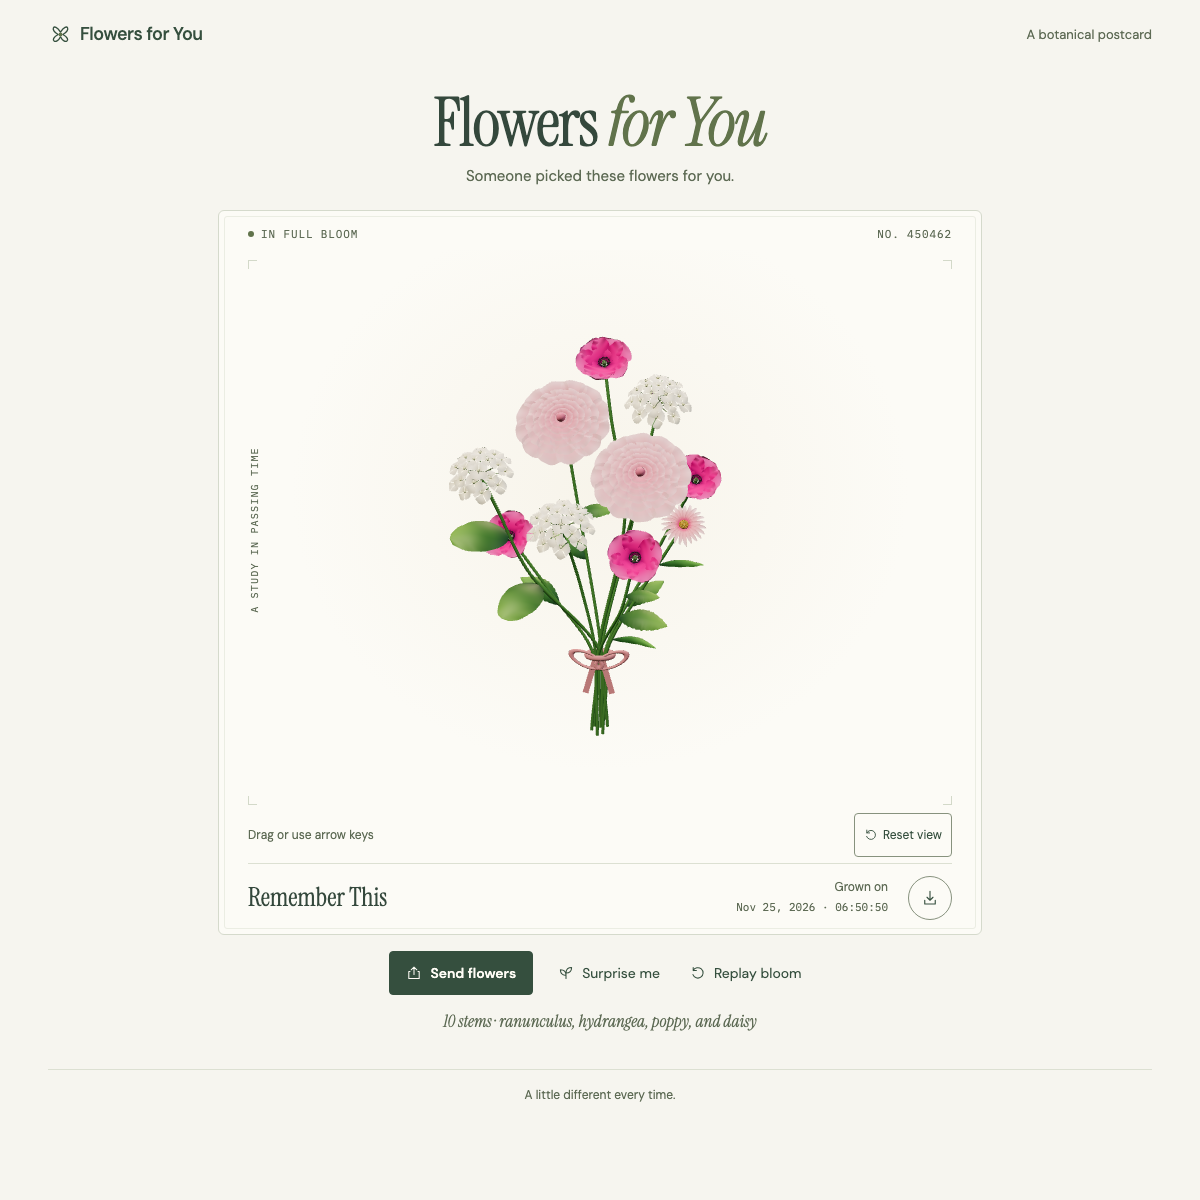
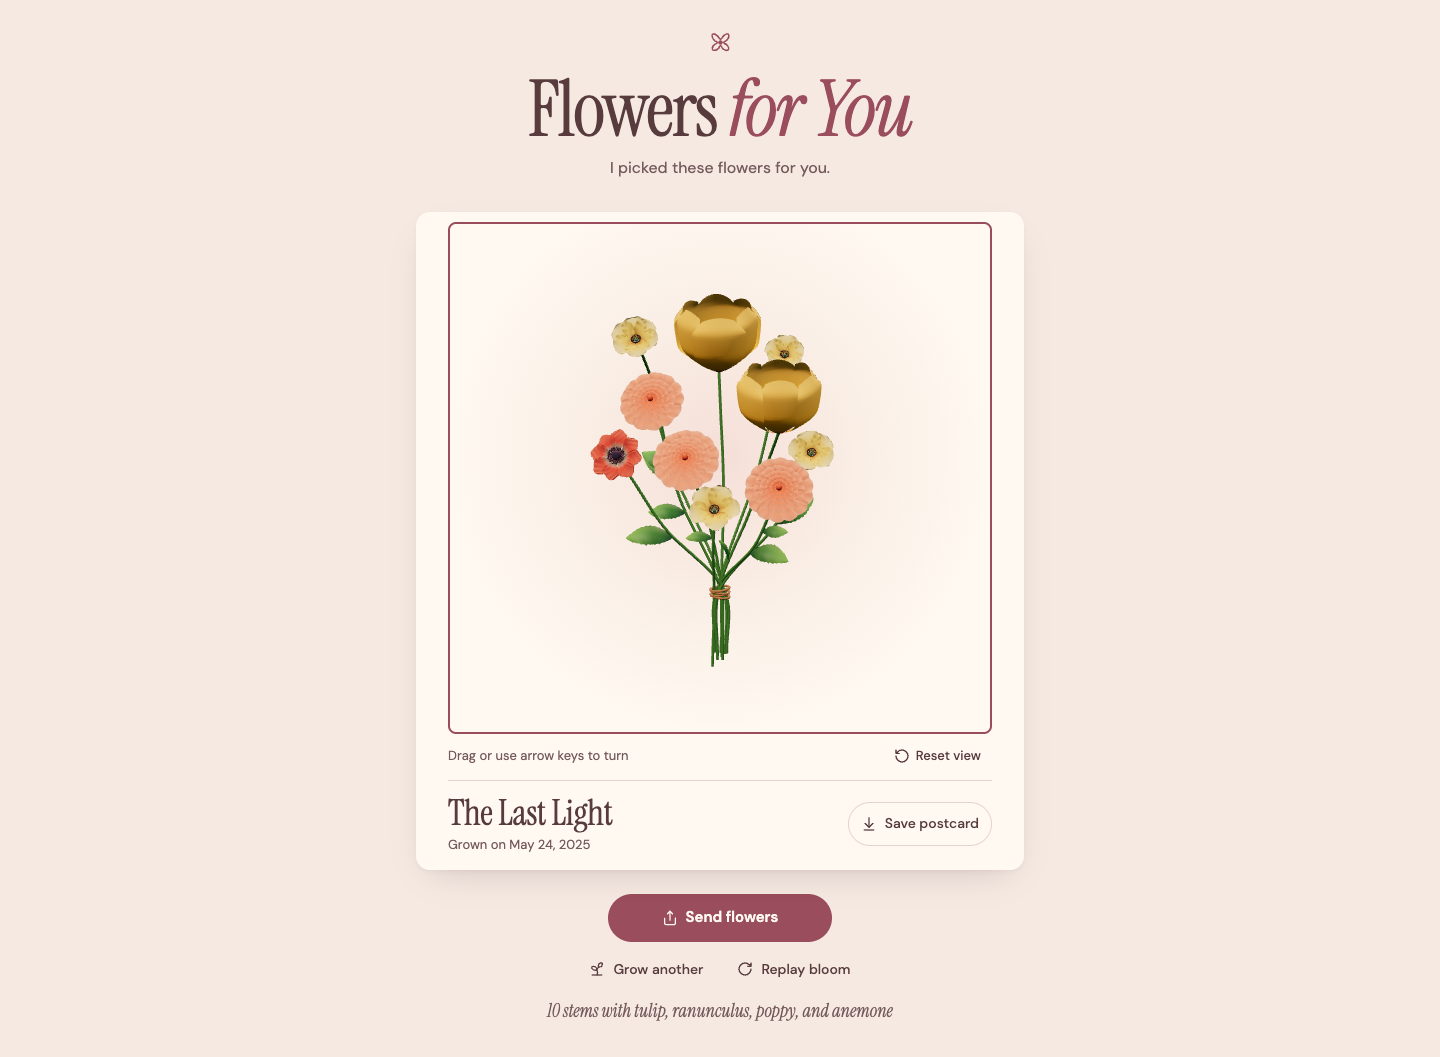
Refresh React app documentation previews and Pages deployment guide

diff --git a/README.md b/README.md
@@ -16,7 +16,8 @@
   <a href="#the-garden">Preview</a> ·
   <a href="#run-it-locally">Run locally</a> ·
   <a href="#how-it-grows">How it works</a> ·
-  <a href="#development">Development</a>
+  <a href="#development">Development</a> ·
+  <a href="docs/DEPLOYMENT.md">Deployment</a>
 </p>
 
 <p align="center">
@@ -59,13 +60,19 @@ These four studies show some of the original flowers, which are still in the mix
   <img src="docs/images/bouquet-gallery.jpg" width="920" alt="Four procedural bouquets featuring roses, tulips, dahlias, and sunflowers, each with supporting flowers" />
 </p>
 
+### A gift to open
+
+<p align="center">
+  <img src="docs/images/gift-cover.png" width="800" alt="The cream stationery cover with an envelope seal and an Open your flowers button" />
+</p>
+
 ### Desktop & mobile
 
-These screenshots show an earlier version of the postcard on desktop and mobile.
+Current React postcard, shown with [the same reproducible bouquet](https://mesterm12.github.io/moment-garden/?bouquet=1970260fcfb) on desktop and mobile. Screenshots capture the finished bouquet; the bloom plays when opened by pointer with motion enabled.
 
 <table>
   <tr>
-    <td width="72%" valign="top"><img src="docs/images/desktop.png" alt="Desktop postcard with a mixed bouquet, replay and surprise controls, and download button" /></td>
+    <td width="72%" valign="top"><img src="docs/images/desktop.png" alt="Rose-and-cream desktop postcard with The Last Light bouquet, sharing, replay, and save actions" /></td>
     <td width="28%" valign="top"><img src="docs/images/mobile.png" alt="The same bouquet postcard in a narrow mobile layout" /></td>
   </tr>
 </table>
@@ -122,7 +129,7 @@ flowchart TD
 
 ### A shared seed, independent details
 
-`botany.js` turns a millisecond timestamp into a bouquet plan. Each stem gets a derived seed for its geometry, while repeated species share cultivar colors. Layout is chosen before tessellation. Flower-head envelopes keep the mature blooms apart in 3D. Stem paths make room around neighboring heads, and crowded leaves are shortened, redirected, or omitted.
+[`src/garden/botany.js`](src/garden/botany.js) turns a millisecond timestamp into a bouquet plan. Each stem gets a derived seed for its geometry, while repeated species share cultivar colors. Layout is chosen before tessellation. Flower-head envelopes keep the mature blooms apart in 3D. Stem paths make room around neighboring heads, and crowded leaves are shortened, redirected, or omitted.
 
 Replay, rotation, and PNG export keep the existing bouquet. **Grow another** starts from a new timestamp and clears any bouquet seed from the address, so refreshing afterward is a fresh visit. The link carries the arrangement, not the sender’s camera angle. Browser/GPU rendering can vary. Messaging apps show a general preview image; the link itself opens the exact bouquet.
 
@@ -178,17 +185,23 @@ npm run test:e2e                 # Starts its own preview server on port 4175
 ### Project map
 
 - [`index.html`](index.html) and [`src/main.tsx`](src/main.tsx): Vite entry page and React entry point.
-- [`src/`](src/): postcard UI, URL handling, and the Three.js garden engine.
+- [`src/App.tsx`](src/App.tsx) and [`src/components/`](src/components/): gift state, focus handoff, reveal, and sharing/saving feedback.
+- [`src/garden/engine.ts`](src/garden/engine.ts) and [`src/garden/rotation.ts`](src/garden/rotation.ts): disposable Three.js rendering and frame-independent gesture physics.
+- [`src/lib/bouquet-link.ts`](src/lib/bouquet-link.ts): the deterministic share-link contract.
 - [`src/components/ui/`](src/components/ui/) and [`src/styles/`](src/styles/): local UI primitives and stationery styling.
 - Root-level generators and their `.test.cjs` files: deterministic compatibility fixtures for bouquet plans, geometry, and links.
 - [`tests/`](tests/): browser tests against the production build.
-- [`docs/images/`](docs/images/) and [`DESIGN-REVIEW.md`](DESIGN-REVIEW.md): reference images and botanical geometry notes.
+- [`DESIGN.md`](DESIGN.md) and [`PRODUCT.md`](PRODUCT.md): the current visual system and product constraints.
+- [`docs/DEPLOYMENT.md`](docs/DEPLOYMENT.md): publishing, verification, troubleshooting, and rollback.
+- [`docs/images/`](docs/images/) and [`DESIGN-REVIEW.md`](DESIGN-REVIEW.md): current screenshots, earlier flower studies, and historical botanical geometry notes.
 
 ### Hosting
 
 Run `npm ci` and `npm run build`, then publish the contents of **`dist/`**, not the repository root. The result is a static site: no Next.js or Node.js runtime server, backend, database, API keys, or runtime settings are required.
 
-Vite’s relative asset base (`./`) lets the same build run at a domain root or a subpath such as `/moment-garden/`. For GitHub Pages, select **GitHub Actions** as the Pages source in repository Settings → Pages before publishing the migration. The included [Pages workflow](.github/workflows/pages.yml) tests and builds the site, uploads `dist/`, and deploys that artifact on pushes to `main` or manual dispatch. The separate test workflow does not publish. Keep the existing site path so previously shared bouquet links keep working. No live deployment or Pages settings change is performed by local setup.
+Vite’s relative asset base (`./`) lets the same build run at a domain root or a subpath such as `/moment-garden/`. The included [Pages workflow](.github/workflows/pages.yml) tests and builds the site, uploads `dist/`, and deploys that artifact on pushes to `main` or manual dispatch. Pages must use **GitHub Actions** as its source, not branch-root publishing. The separate test workflow also runs desktop/mobile browser checks but does not publish.
+
+See [Deployment](docs/DEPLOYMENT.md) for setup, release verification, and rollback. Keep the existing site path so previously shared bouquet links keep working. Local setup and `npm run build` do not deploy anything.
 
 ### Contributing
 

diff --git a/docs/DEPLOYMENT.md b/docs/DEPLOYMENT.md
@@ -1,0 +1,65 @@
+# Deploy Flowers for You
+
+The site is a React 19 + TypeScript application built with Vite. GitHub Pages serves the contents of `dist/`; it does not execute React, TypeScript, or a Node server.
+
+- Public site: https://mesterm12.github.io/moment-garden/
+- Deployment workflow: [pages.yml](../.github/workflows/pages.yml)
+- Build and browser checks: [test.yml](../.github/workflows/test.yml)
+
+## Publish through GitHub Actions
+
+1. In repository **Settings → Pages → Build and deployment**, select **GitHub Actions** as the source. Branch-root publishing is incompatible with the Vite source tree.
+2. Push a reviewed commit to `main`, or run **Deploy static site to GitHub Pages** manually from the Actions tab.
+3. The build job installs the lockfile with Node.js 24, runs the Node and React tests, builds the application, and uploads `dist/` as a Pages artifact.
+4. The deploy job publishes that artifact to the `github-pages` environment using GitHub’s short-lived deployment token. No personal access token or application secret is needed.
+5. Wait for both the deployment and the separate browser-test workflow to succeed. Smoke-test the public URL before sharing it.
+
+From an authenticated GitHub CLI:
+
+```sh
+gh workflow run pages.yml --ref main
+gh run list --workflow pages.yml --limit 5
+gh run watch <run-id> --exit-status
+```
+
+The workflow runs on `main` pushes automatically; manual dispatch is useful for redeploying an existing commit. Concurrent Pages runs are canceled in favor of the latest one.
+
+## Verify a release
+
+Open this known bouquet:
+
+https://mesterm12.github.io/moment-garden/?bouquet=1970260fcfb
+
+Check that:
+
+- The personal cover loads and **Open your flowers** is enabled.
+- Opening reveals **The Last Light**, seeded by timestamp `1748091600123`.
+- Replay preserves the arrangement; **Grow another** changes it and removes the old bouquet token from the URL.
+- **Send flowers** produces a link under `/moment-garden/`, not a local preview address.
+- **Save postcard** downloads a PNG of the current bouquet.
+- Keyboard and reduced-motion opening show the finished arrangement without waiting.
+- The browser reports no failed local asset requests or application errors.
+
+The URL token and path are part of the gift contract. Keep `/moment-garden/` and the existing lowercase hexadecimal seed format when changing deployment infrastructure. Vite’s relative asset base allows deployment at this subpath without rebuilding for a specific hostname.
+
+## Test before publishing
+
+```sh
+npm ci
+npm test
+npm run build
+npx playwright install chromium
+npm run test:e2e
+```
+
+To inspect the generated files locally, use `npm run preview`. Opening `index.html` from disk or serving the repository root is not a production deployment. Production includes `public/` assets copied into `dist/`; documentation screenshots and legacy generator fixtures stay in the repository.
+
+## Troubleshooting and rollback
+
+- **Blank page or a `/src/main.tsx` request:** Pages is serving the source tree. Select GitHub Actions as the source and deploy the `dist/` artifact.
+- **Deployment permission or environment failure:** confirm Pages is enabled, the `github-pages` environment permits `main`, and the deploy job has `pages: write` and `id-token: write`. Keep those permissions limited to the deploy job.
+- **Build or tests fail:** inspect the failing job. The workflow does not publish when its build job fails; fix the source or lockfile instead of uploading the repository root.
+- **An old preview appears in a messaging app:** the social card is generic and may be cached. The bouquet URL still selects the recipient’s exact arrangement.
+- **Rollback:** revert the faulty change on `main` and push. The workflow rebuilds and publishes the reverted source. Do not revert to a pre-Vite source layout without also coordinating the Pages publishing configuration.
+
+A successful Actions run confirms artifact publication. Real-device Safari, native sharing, and screen-reader behavior still need device testing; desktop/mobile Chromium automation does not establish those results.

diff --git a/PRODUCT.md b/PRODUCT.md
@@ -28,7 +28,7 @@ The postcard runs in desktop and mobile browsers and requires WebGL for the 3D s
 - Replay and sharing preserve the current arrangement. The recipient opens it from the front, regardless of the sender’s viewing angle. The PNG preserves the viewing angle.
 - **Send flowers** opens the native share sheet when available, otherwise copies the link or offers it for manual copying. Feedback confirms that the link was copied or the postcard is ready; don’t imply that a gift was delivered.
 - Flower geometry is generated in code rather than loaded from model files or photographs. Bouquet state stays in the browser; the lowercase hexadecimal timestamp in the URL reproduces the same arrangement without a server lookup, including for existing links.
-- The React and TypeScript source builds with Vite to `dist/` for static hosting at the existing [public site URL](https://mesterm12.github.io/moment-garden/); the migrated build must be published there before rollout. Hosting serves the built files; there is no application server or backend. The public source repository is [mesterM12/moment-garden](https://github.com/mesterM12/moment-garden).
+- The React and TypeScript source builds with Vite to `dist/` for static hosting at the [public site URL](https://mesterm12.github.io/moment-garden/). The GitHub Pages workflow publishes the built artifact at that path; repository-root publishing is not supported. Hosting serves the built files; there is no application server or backend. The public source repository is [mesterM12/moment-garden](https://github.com/mesterM12/moment-garden).
 
 ## Brand Commitments
 
@@ -37,7 +37,8 @@ The product is named **Flowers for You**. The experience should feel warm and in
 ## Evidence on Hand
 
 - [`src/`](src/): the postcard UI and browser-side rendering.
-- [`docs/images/`](docs/images/): reference screenshots, bouquet gallery, and animated preview.
+- [`docs/images/`](docs/images/): current React desktop/mobile and gift-cover screenshots, plus earlier bouquet studies and an animated preview.
+- [`docs/DEPLOYMENT.md`](docs/DEPLOYMENT.md): the static publishing contract and release checks.
 - [`DESIGN-REVIEW.md`](DESIGN-REVIEW.md): observations about species resemblance and remaining geometry refinements.
 
 ## Product Principles

diff --git a/DESIGN-REVIEW.md b/DESIGN-REVIEW.md
@@ -1,5 +1,7 @@
 # Botanical design review
 
+> Historical geometry review from the pre-React implementation. References to `flower.js` describe the renderer at that time; the current implementation lives in `src/garden/engine.ts`, `src/garden/petal-meshes.js`, and `src/garden/extra-blooms.js`. Some `/tmp/` captures cited below were temporary and are not repository assets. Use `DESIGN.md` for the current interface system and the committed screenshots in `docs/images/` for its present appearance. The findings below are not an unresolved implementation checklist or a review of the current release.
+
 ## Final visual follow-up
 
 Reviewed `/tmp/bouquet-final-rose.png`, `/tmp/bouquet-refined-tulip.png`, and `/tmp/bouquet-refined-dahlia.png` against the current source. **No remaining blocker in the supplied captures.** The rose tearing and green center holes are gone in the final rose capture, the tulips read as six-part upright cups, and the dahlia reads as many rolled florets rather than intersecting blades. The tulip capture still shows horizontal bands; current source changes profile interpolation to monotone Hermite, but the post-change image was not reviewed. The dahlia capture likewise predates the smaller backing dome (`.88R` width, `.39R` height scale).
